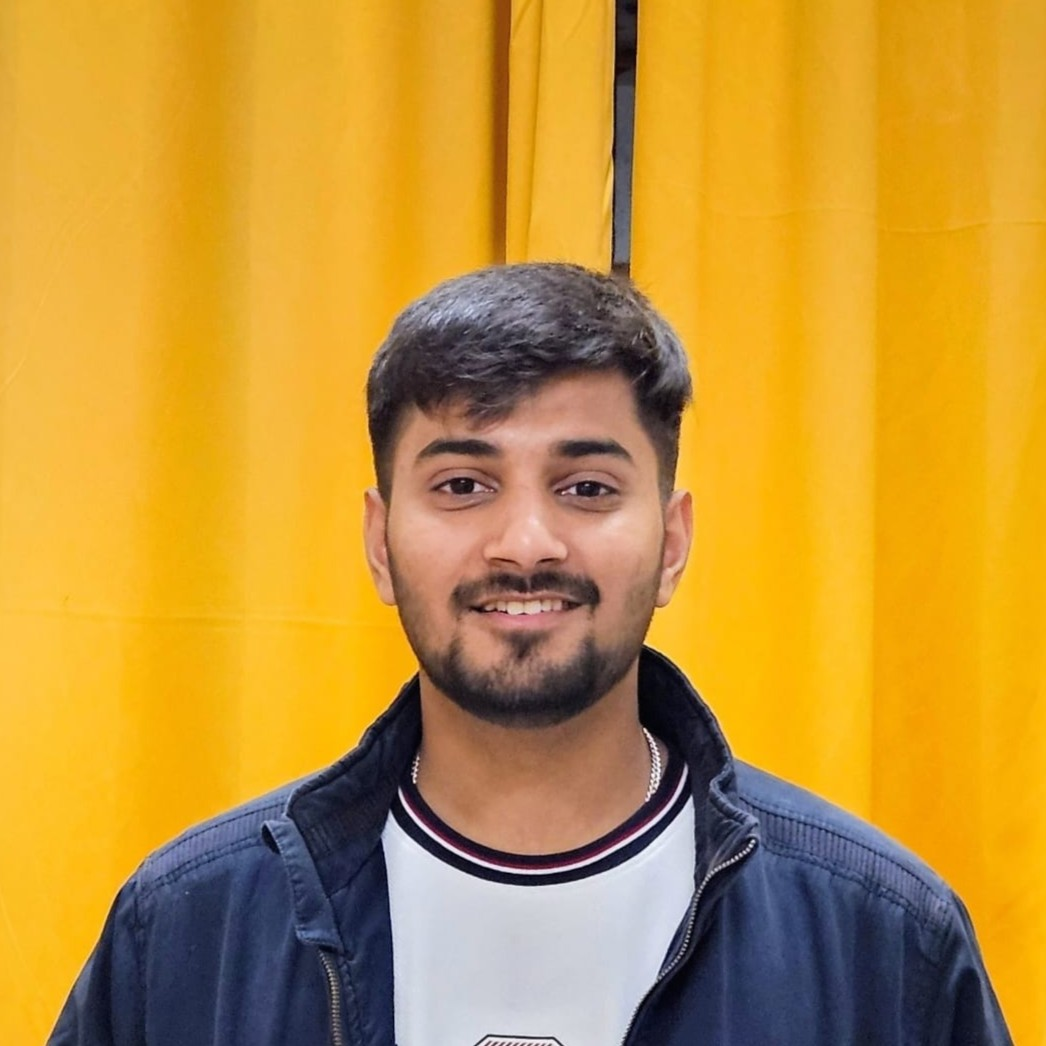
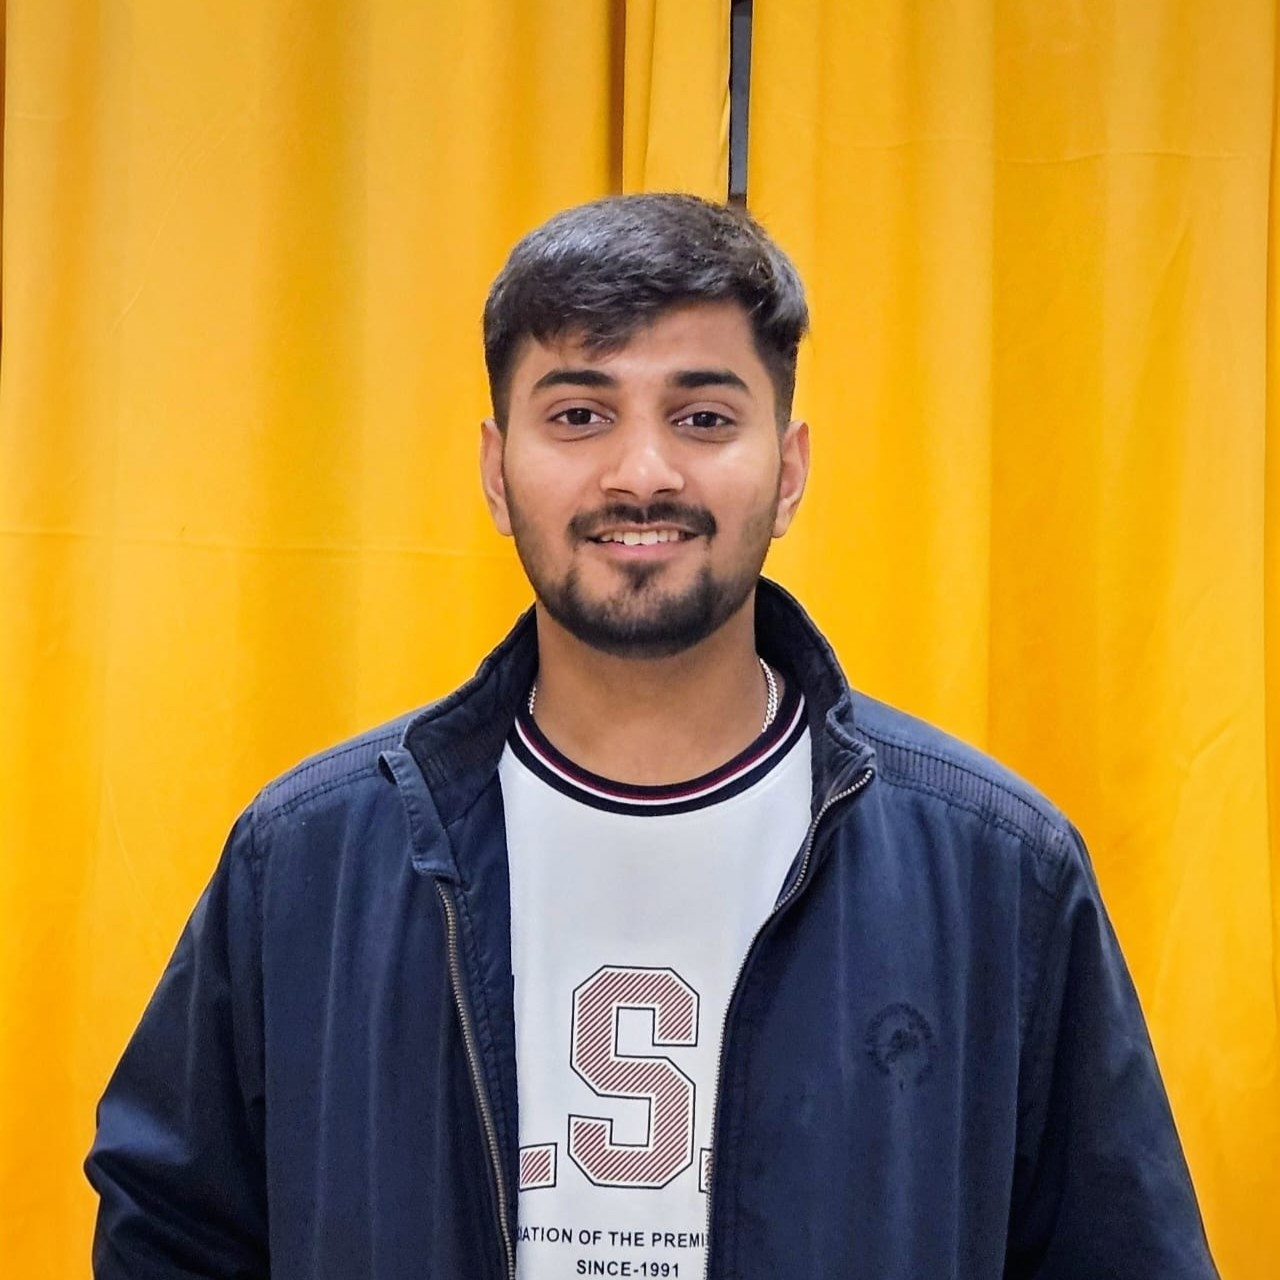
Profile Pic changed

diff --git a/app/components/homepage/hero-section/index.jsx b/app/components/homepage/hero-section/index.jsx
@@ -49,12 +49,12 @@ function HeroSection() {
 
         {/* Profile Image */}
         <div className="relative shrink-0 self-start md:self-center">
-          <div className="group w-24 h-24 sm:w-28 sm:h-28 rounded-full overflow-hidden border border-zinc-700 bg-zinc-800 shadow-2xl relative">
+          <div className="group w-32 h-32 md:w-48 md:h-48 rounded-full overflow-hidden border border-zinc-700 bg-zinc-800 shadow-2xl relative">
             <Image
               src={personalData.profile}
               alt={personalData.name}
-              width={200}
-              height={200}
+              width={500}
+              height={500}
               className="w-full h-full object-cover grayscale opacity-90 group-hover:grayscale-0 group-hover:opacity-100 transition-all duration-500"
             />
           </div>
